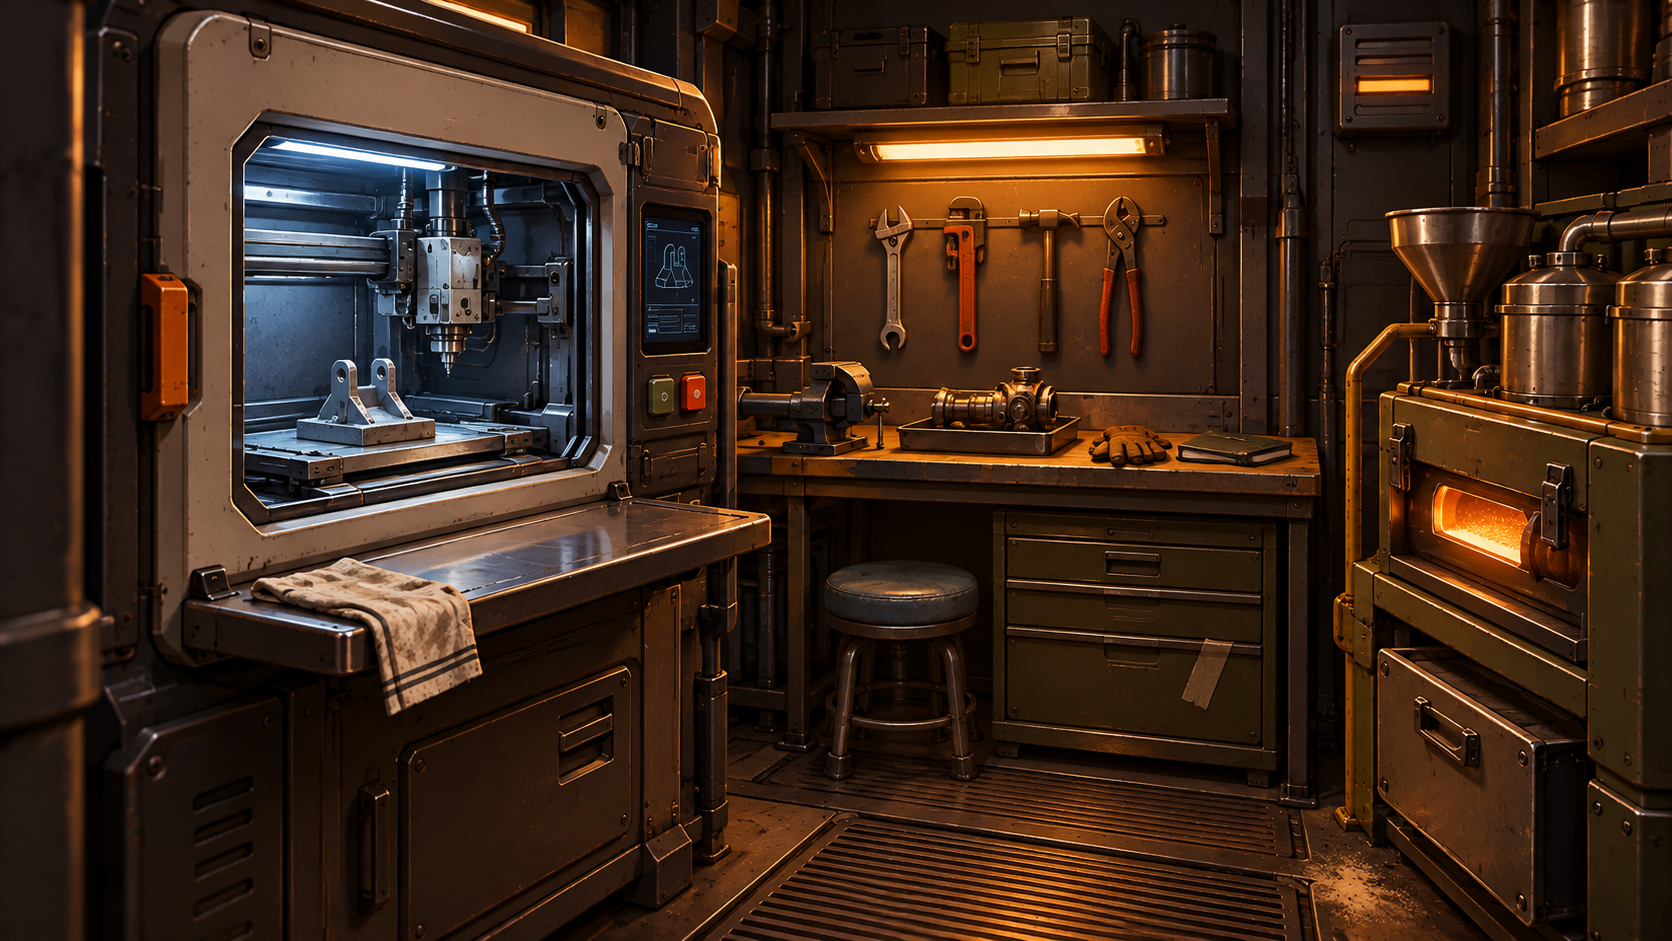
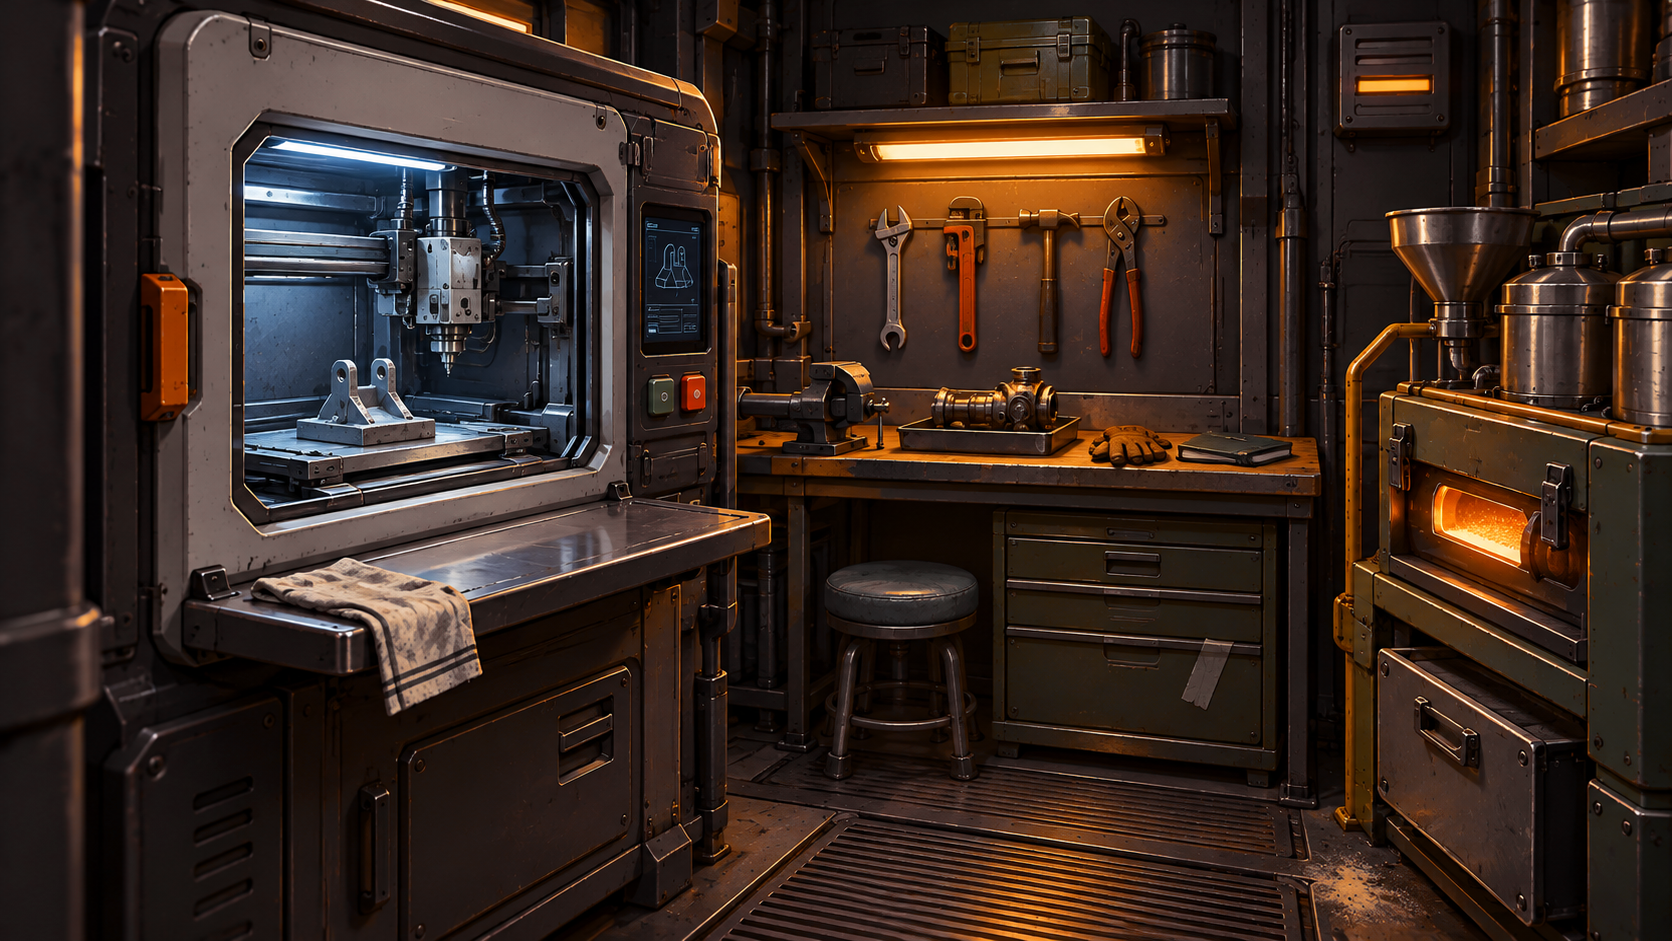
Use corrected ship compartment backgrounds

diff --git a/games/ship/assets/rooms/README.md b/games/ship/assets/rooms/README.md
@@ -1,8 +1,10 @@
 # Current ship compartment backgrounds
 
-Copied unchanged from Bart's 19 October 2026 handoff (mailbox message 1090).
-These are the current images requested by Julien for the first scene setup;
-color corrections toward the infirmary reference will follow separately.
+Eight backgrounds copied unchanged from Bart's color-balance-v2 handoff on
+20 October 2026 (mailbox message 1152). The infirmary remains the unchanged
+reference from the original handoff (message 1090). The correction reduces
+orange in metal and shadows while protecting lamps and selected colored props;
+composition, crop and dimensions are unchanged.
 
 All nine PNGs are 1672×941. Preserve aspect ratio; center-crop for narrower
 viewports. They are backgrounds only. Crew, dialogue and equipment interaction
@@ -10,14 +12,17 @@ remain separate presentation/game logic.
 
 Source root: `/home/maduser/workspace/madhouse/agents/bart/artwork/`.
 
-| Local image     | Source                                         |
-| --------------- | ---------------------------------------------- |
-| infirmary.png   | farwake-room-tests-v3/infirmary.png            |
-| science-lab.png | farwake-room-tests-v3/science-lab-lived-in.png |
-| galley.png      | farwake-galley-v1/galley.png                   |
-| fridge.png      | farwake-galley-v1/fridge.png                   |
-| engine-room.png | farwake-engine-room-v1/engine-room.png         |
-| fabricator.png  | farwake-workshop-v1/fabricator.png             |
-| refinery.png    | farwake-workshop-v1/refinery.png               |
-| quarters.png    | farwake-crew-quarters-v1/crew-quarters.png     |
-| cargo-link.png  | farwake-cargo-link-v1/cargo-link.png           |
+| Local image     | Source                                     |
+| --------------- | ------------------------------------------ |
+| infirmary.png   | farwake-room-tests-v3/infirmary.png        |
+| science-lab.png | farwake-color-balance-v2/science-lab.png   |
+| galley.png      | farwake-color-balance-v2/galley.png        |
+| fridge.png      | farwake-color-balance-v2/fridge.png        |
+| engine-room.png | farwake-color-balance-v2/engine-room.png   |
+| fabricator.png  | farwake-color-balance-v2/fabricator.png    |
+| refinery.png    | farwake-color-balance-v2/refinery.png      |
+| quarters.png    | farwake-color-balance-v2/crew-quarters.png |
+| cargo-link.png  | farwake-color-balance-v2/cargo-link.png    |
+
+Reproducible correction script and source hashes are preserved beside Bart's
+sources in `farwake-color-balance-v2/correct_colors.py` and `manifest.json`.
